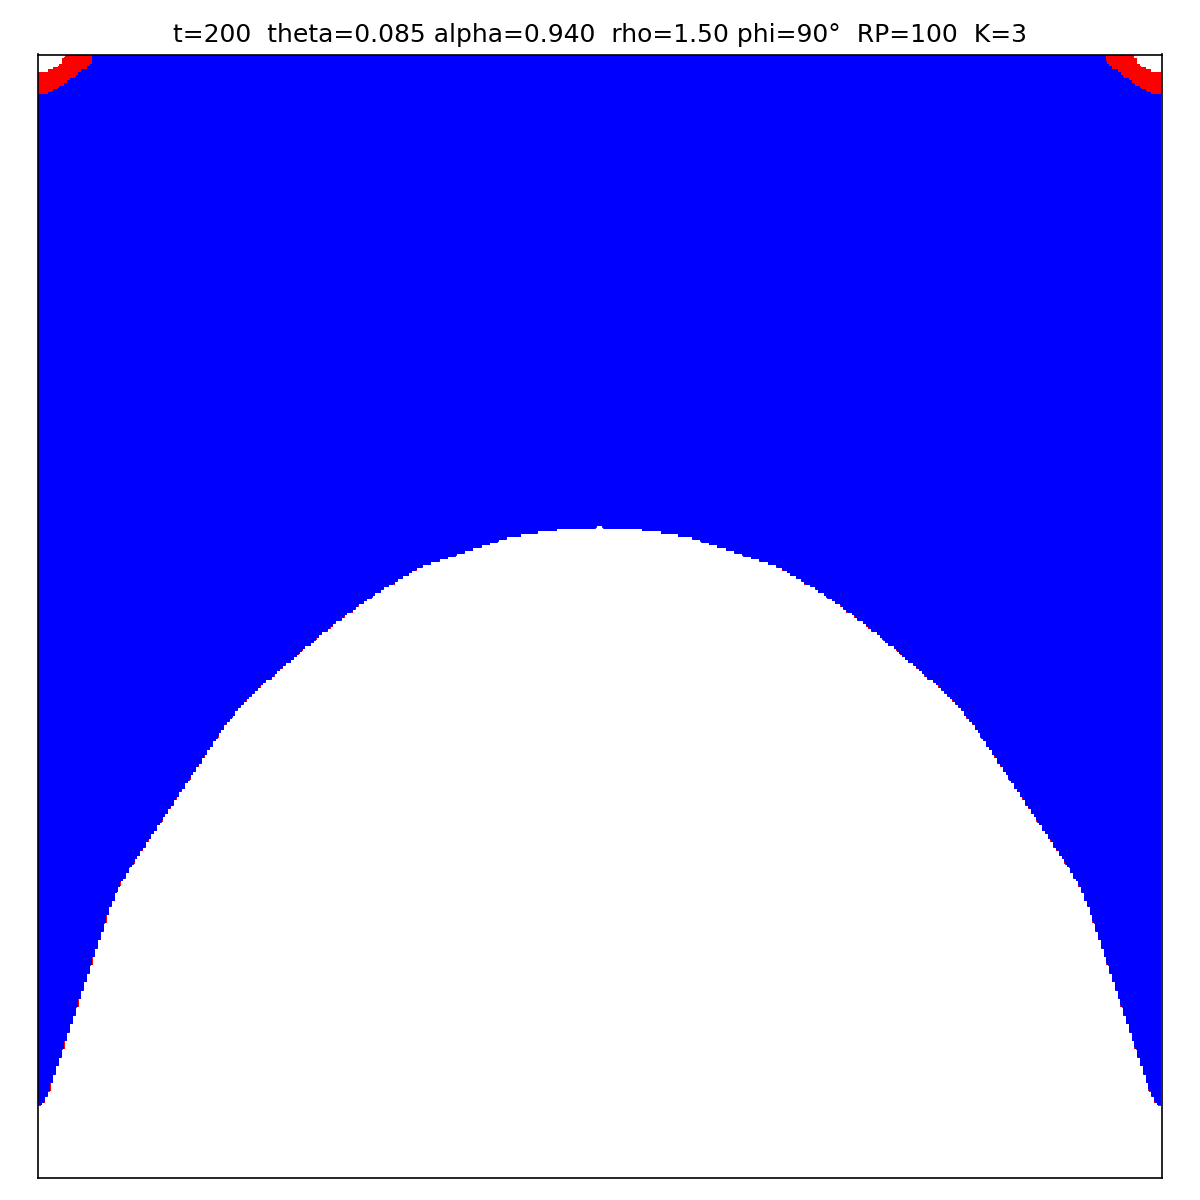
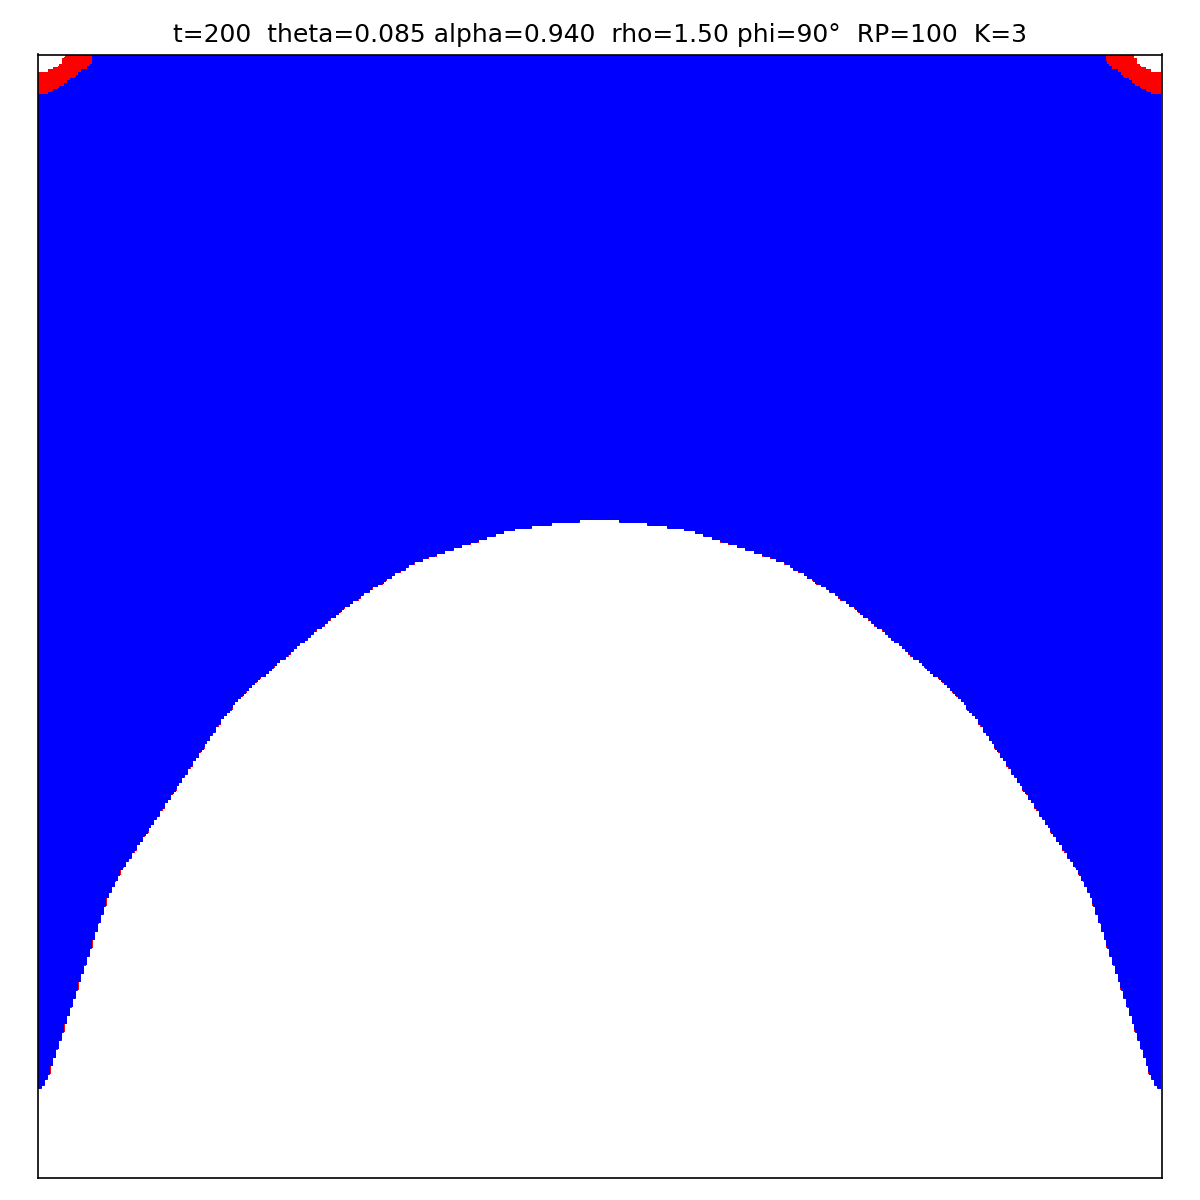
- Implements hybrid CA model with integer excitation/refractory states   and floating‑point voltage accumulator - Adds anisotropic Gaussian kernel for directional conduction - Includes LAT tracking, CV estimation, and activity data collection - Provides real‑time matplotlib animation and optional sc

diff --git a/Cardiac_CA_v2.py b/Cardiac_CA_v2.py
@@ -22,7 +22,7 @@ from typing import List, Tuple
 import numpy as np
 import matplotlib.pyplot as plt
 from matplotlib.animation import FuncAnimation
-from matplotlib.colors import ListedColormap
+from matplotlib.colors import ListedColormap, Normalize
 from scipy.signal import convolve2d
 
 # ----------------------------- States ---------------------------------------
@@ -399,18 +399,19 @@ def initialize_grid(
     if not (grid_height > 0 and grid_width > 0):
         raise ValueError("Grid height and width must be positive integers.")
     grid = np.full((grid_height, grid_width), RESTING, dtype=np.int32)
+   
     if stim_type == "center":
         cy, cx = grid_height // 2, grid_width // 2
-        y0 = cy - stim_size // 2
-        y1 = cy + stim_size // 2 + (stim_size % 2)
-        x0 = cx - stim_size // 2
-        x1 = cx + stim_size // 2 + (stim_size % 2)
+        y0 = max(0, cy - stim_size // 2)
+        y1 = min(grid_height, cy + stim_size // 2 + (stim_size % 2))
+        x0 = max(0, cx - stim_size // 2)
+        x1 = min(grid_width, cx + stim_size // 2 + (stim_size % 2))
         grid[y0:y1, x0:x1] = EXCITED
     elif stim_type == "bottom_center":
         cx = grid_width // 2
         y0 = max(0, grid_height - stim_depth)
-        x0 = cx - stim_size // 2
-        x1 = cx + stim_size // 2 + (stim_size % 2)
+        x0 = max(0, cx - stim_size // 2)
+        x1 = min(grid_width, cx + stim_size // 2 + (stim_size % 2))
         grid[y0:grid_height, x0:x1] = EXCITED
     elif stim_type == "bottom_cap":
         radius = max(6, stim_size // 2)
@@ -494,14 +495,13 @@ def update_grid_hybrid(
     mask_last_exc = current_grid == k_exc
     refractory_start = k_exc + 1
     new_grid[mask_last_exc] = refractory_start
-
-    refractory_end = refractory_start + refractory_period_val
+    refractory_last = refractory_start + refractory_period_val - 1
     refractory = current_grid >= refractory_start
 
-    progressing = refractory & (current_grid < refractory_end)
+    progressing = refractory & (current_grid < refractory_last)
     new_grid[progressing] = current_grid[progressing] + 1
 
-    finished = refractory & (current_grid == refractory_end)
+    finished = refractory & (current_grid == refractory_last)
     new_grid[finished] = RESTING
     V_next[finished] = 0.0
 
@@ -535,7 +535,7 @@ def create_animation_elements(
     colors = ["white"] + ["red"] * k_exc + ["blue"] * refractory_period_val
     cmap = ListedColormap(colors)
     max_state_value = k_exc + refractory_period_val
-    norm = plt.Normalize(vmin=RESTING, vmax=max_state_value)
+    norm = Normalize(vmin=RESTING, vmax=max_state_value)
     fig, ax = plt.subplots(figsize=(8, 8))
     img = ax.imshow(
         initial_grid,

diff --git a/README.md b/README.md
@@ -9,6 +9,11 @@ It combines:
 
 The result is a smooth, realistic simulation of cardiac wavefronts, with tools to measure **Local Activation Time (LAT)** and **Conduction Velocity (CV)**.
 
+
+### How it works 
+- Cells progress through integer excitation/refractory states while a floating‑point voltage accumulator V integrates anisotropic neighbor input.
+- V decays by a leak factor (ALPHA) and, when V ≥ THETA and the cell is not refractory, the cell enters the first excited substate.
+
 ---
 
 ## 📸 Example Output
@@ -41,7 +46,7 @@ The result is a smooth, realistic simulation of cardiac wavefronts, with tools t
 Install dependencies:
 
 ```bash
-pip install numpy matplotlib scipy
+pip install "numpy>=1.24" "matplotlib>=3.7" "scipy>=1.10"
 ```
 ---
 
